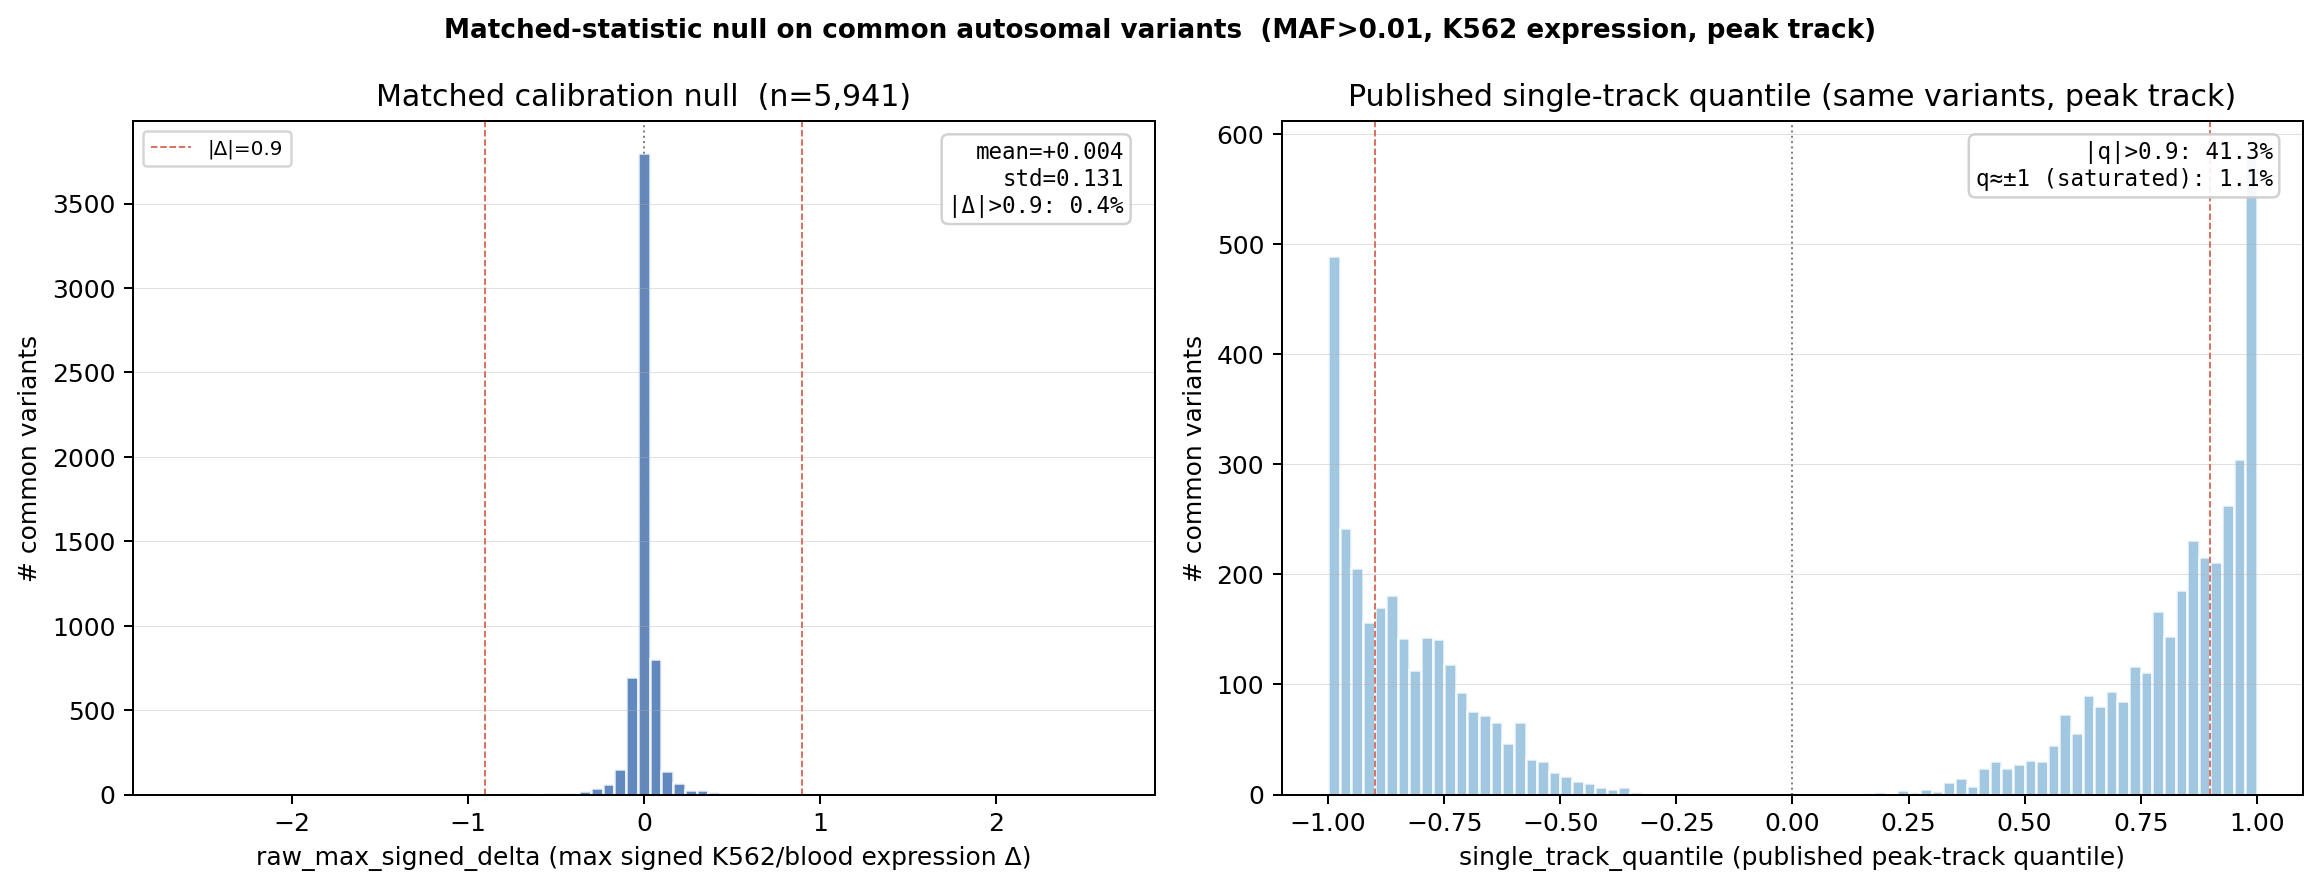
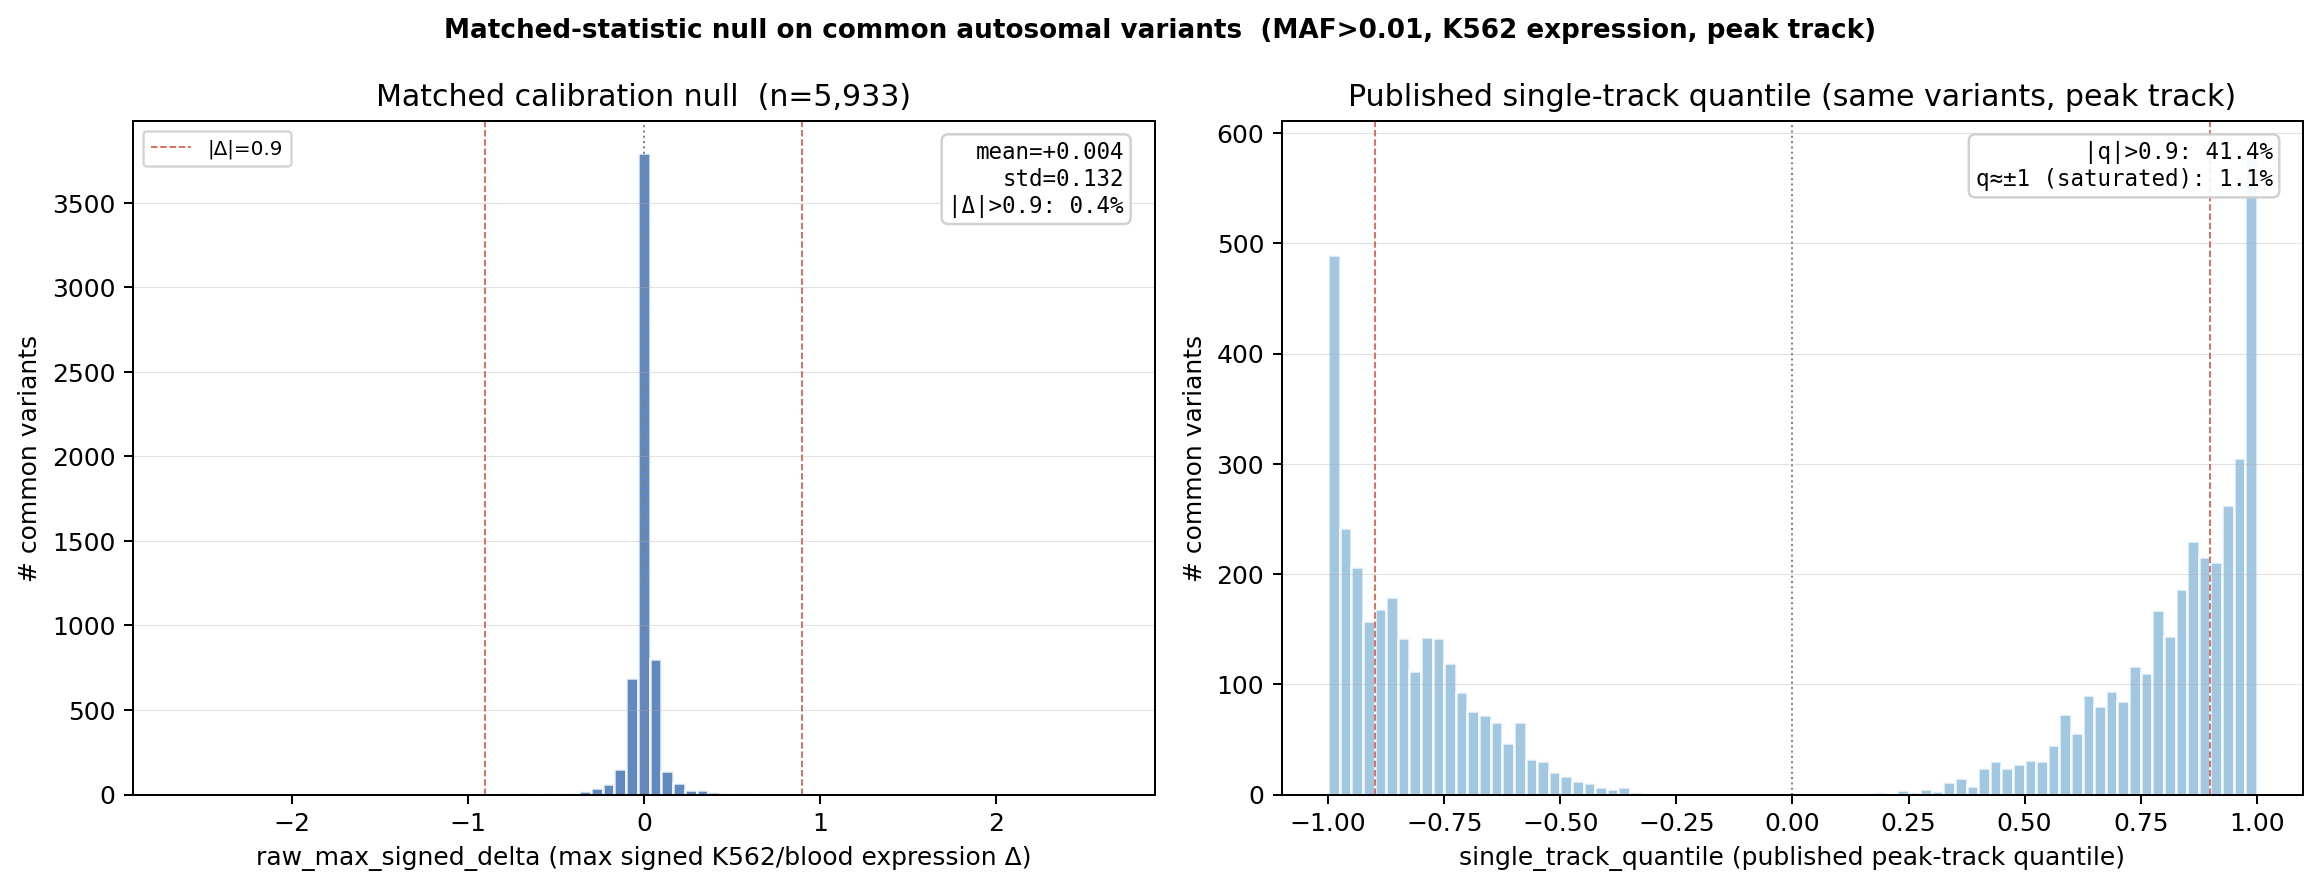
Sharpen README narrative around two-mechanism separation
The original framing bundled selection bias and the order-statistic
effect as joint causes of saturation. The three-recipe matched-cal
experiment from the previous commit shows they are cleanly separable:

- Order-statistic effect is real and quantifiable on the common-variant
  null (max: 0.42% > |0.9|; mean and median: 0.00%). It is what produces
  the published-quantile saturation. Fixable either by matched-statistic
  recalibration OR by swapping the pre-quantile aggregation.

- Selection bias is residual after the matched-calibration recipe is
  applied: ~13% of Tewhey variants still land above |0.9| under any
  aggregation. That's biology, not a calibration artifact.

Changes:
- TL;DR: explicit two-component framing.
- "Why this happens": mechanism ordering inverted (order-statistic first,
  since it's the decisive and fixable one). Updated common-variant table
  to show max/mean/median + published quantile side-by-side (5,933 vars).
- Methods: three-recipe Tewhey comparison table added; new figure
  reference (matched_recipes_comparison.png).
- Limitations: mean/median bullet moved out of "Not run".
- Repo structure + data table: new scripts and CSVs listed.
- config.yaml: null_size_actual 5941 → 5933 (re-scored cache reflects
  new error/timeout counts).
- Regenerated matched_calibration_histogram.png on the refreshed null.

Changed region(s): [[0.3723, 0.0911, 0.4033, 0.1215], [0.031, 0.6985, 0.062, 0.7289], [0.031, 0.3037, 0.062, 0.3341]]

diff --git a/README.md b/README.md
@@ -5,7 +5,9 @@
 
 ---
 
-AlphaGenome's published quantile-calibrated scoring uses single-track summary statistics. When max-over-tracks aggregation is applied to these outputs — a common composition for tissue-level variant scoring — saturation collapses signed correlation against measured MPRA log fold change from ρ = 0.123 to ρ = 0.037 (n = 3,246), with 94.9% of regulatory variants pinned at |score| > 0.9. Re-deriving the quantile calibration using matched max-over-tracks statistics on a common-variant null recovers the full underlying signal at ρ = 0.123 (95% CI [0.088, 0.157], p = 2.5×10⁻¹²) (same n; the matched-calibration result is a re-quantiling of the same variants against a matched null). The saturation is an artifact of the calibration-statistic mismatch, not of the model. The fix is methodological: match calibration summary statistics to the use case.
+AlphaGenome's published quantile-calibrated scoring uses single-track summary statistics. When max-over-tracks aggregation is applied to these outputs — a common composition for tissue-level variant scoring — saturation collapses signed correlation against measured MPRA log fold change from ρ = 0.123 to ρ = 0.037 (n = 3,246), with 94.9% of regulatory variants pinned at |score| > 0.9. Re-deriving the quantile calibration using max-over-tracks statistics on a common-variant null recovers the full underlying signal at ρ = 0.123 (95% CI [0.088, 0.157], p = 2.5×10⁻¹², n = 3,246).
+
+The mechanism behind that recovery separates cleanly into two parts. The **order-statistic component** is the source of saturation in the published quantile and is real and quantifiable on the null: on the same 5,933 common variants, max-over-tracks raw deltas exceed |0.9| at 0.42% — but mean- and median-over-tracks raw deltas do so at 0.00%. The **regulatory-enrichment component** is residual: after the matched-calibration recipe absorbs the order-statistic effect, ~13% of Tewhey variants still land above |0.9| under any aggregation choice (max, mean, or median give Spearman within each other's CIs — ρ ≈ +0.12). That residual is biology, not a calibration artifact. The fix is methodological: match calibration summary statistics to the use case, and the choice of aggregation downstream of the match becomes a presentation decision rather than a science one.
 
 ---
 
@@ -19,22 +21,26 @@ AlphaGenome's published quantile-calibrated scoring uses single-track summary st
 
 AlphaGenome's published `quantile_score` is computed by ranking each variant's per-track raw score against an empirical background of ~300,000 common variants (gnomAD / 1000 Genomes, MAF > 0.01). The calibration is correct for its design purpose: a single-track score in [−1, +1] where 0.9 means "this variant has a larger predicted regulatory effect on this track than 90% of common genetic variation." That is the right tool for ranking candidates within a fine-mapped credible set at one locus.
 
-The problem appears at validation time, through two mechanisms.
+The problem appears at validation time, through two mechanisms that are routinely conflated but are mechanistically separable.
 
-**Mechanism 1 — selection bias.** MPRA panels and eQTL datasets are not random: they are assembled from variants that already showed up in GWAS, passed regulatory annotation filters, or were selected specifically because they might be functional. By the same logic that makes them interesting to study, they are enriched for regulatory activity relative to background.
+**Mechanism 1 — calibration-statistic mismatch (order-statistic inflation).** Tissue-level pipelines aggregate single-track scores with a summary statistic — typically the maximum signed value across all tissue-relevant expression tracks. Composing that order statistic on top of single-track-calibrated quantiles is what produces the bulk of the saturation: for *n* tracks the chance that *some* track exceeds the 0.9 single-track quantile is 1 − 0.9ⁿ, so with the hundreds of K562 expression tracks AlphaGenome actually exposes, the max exceeds 0.9 with probability approaching 1 — for *any* variant, regulatory or not. This is a property of the aggregation operation, not the variants.
 
-**Mechanism 2 — calibration-statistic mismatch.** Tissue-level pipelines aggregate single-track scores with a summary statistic — typically the maximum signed value across all tissue-relevant expression tracks. Composing that order statistic on top of single-track-calibrated quantiles is what produces saturation: for *n* tracks the chance that *some* track exceeds the 0.9 single-track quantile is 1 − 0.9ⁿ, so with 20–30 K562 tracks the max exceeds 0.9 with probability ~88–96% — for *any* variant, regulatory or not.
+**Mechanism 2 — selection bias.** MPRA panels and eQTL datasets are not random: they are assembled from variants that already showed up in GWAS, passed regulatory annotation filters, or were selected specifically because they might be functional. By the same logic that makes them interesting to study, they are enriched for regulatory activity relative to background.
 
-Empirically, on **5,941 random common autosomal variants** (gnomAD MAF > 0.01, sampled genome-wide):
+Empirically, on **5,933 random common autosomal variants** (gnomAD MAF > 0.01, sampled genome-wide; same variants used for the matched-calibration null in this work):
 
-|  | Saturation \|score\| > 0.9 | Exactly ±1 |
+| Aggregation of K562 expression raw deltas | Saturation \|·\| > 0.9 on common variants | Saturation \|·\| > 0.5 |
 |---|---|---|
-| Matched null (raw max-over-tracks Δ — calibration matches the test statistic) | **0.42 %** | 0.000 % |
-| Published single-track quantile (single-track calibration, max-over-tracks applied) | **41.3 %** | 1.1 % |
+| Max-over-tracks (the pipeline statistic) | **0.42 %** | 1.28 % |
+| Mean-over-tracks | **0.00 %** | 0.00 % |
+| Median-over-tracks | **0.00 %** | 0.00 % |
+| Published single-track quantile (single-track calibration, max applied) | **41.4 %** | — |
 
-The ~100× gap on identical variants is the direct demonstration: saturation is produced by composing a single-track-calibrated output with a different-statistic aggregation, not by any property of the variants being scored. Mechanism 1 (selection bias) pushes regulatory-enriched panels somewhat further into the tail than random common variation, but mechanism 2 explains the bulk of the effect — including most of the saturation seen on random common variation itself.
+The first three rows isolate the order-statistic effect on identical variants: swapping max for mean or median on the raw side eliminates tail inflation on the common-variant null. The fourth row is what users see when the published per-track quantile is composed with max — the same variants now hit 41% saturation, two orders of magnitude higher. That ~100× gap is mechanism 1 alone, on variants with no regulatory enrichment.
 
-This is not a bug in AlphaGenome. The published calibration is faithful to its construction (single-track empirical quantiles). The lesson generalizes: any tool that publishes a quantile calibrated against one summary statistic and is then aggregated with a different one will exhibit the same artifact.
+Mechanism 2 (selection bias) explains why the saturation rate on regulatory-enriched panels (94.9% on Tewhey) is higher still than on common variants (41%): regulatory variants sit further into the tail of any aggregation. But unlike mechanism 1, it isn't fixed by the matched-calibration recipe — after re-calibrating against a matched null, ~13% of Tewhey variants still land above |0.9|. That residual is biology.
+
+This is not a bug in AlphaGenome. The published calibration is faithful to its construction (single-track empirical quantiles). The lesson generalizes: any tool that publishes a quantile calibrated against one summary statistic and is then aggregated with a different one will exhibit the same order-statistic artifact.
 
 ---
 
@@ -113,20 +119,38 @@ For completeness, the empirical CDF of the original-quantile score on regulatory
 
 ### Matched-statistic calibration
 
-**5,941** random common autosomal SNVs were sampled from **66 windows of 50 kb** placed proportional to chromosome length (chr1 → 7 windows; chr19–22 → 1 each), at uniformly-random offsets ≥ 1 Mb from chromosome ends, autosomes only, seed = 2026. Sex chromosomes were excluded for simplicity. Within each window, variants were fetched and filtered to MAF > 0.01 via gnomAD v3 GraphQL (the same allele-frequency source AlphaGenome calibrates against), keeping biallelic SNVs only and dropping any variant whose rsID appears in the Tewhey panel (3 dropped). The procedure is reproducible from the seed alone.
+**5,933** random common autosomal SNVs (5,995 attempted, 60 errors, 2 timeouts) were sampled from **66 windows of 50 kb** placed proportional to chromosome length (chr1 → 7 windows; chr19–22 → 1 each), at uniformly-random offsets ≥ 1 Mb from chromosome ends, autosomes only, seed = 2026. Sex chromosomes were excluded for simplicity. Within each window, variants were fetched and filtered to MAF > 0.01 via gnomAD v3 GraphQL (the same allele-frequency source AlphaGenome calibrates against), keeping biallelic SNVs only and dropping any variant whose rsID appears in the Tewhey panel (3 dropped). The procedure is reproducible from the seed alone.
 
-Each variant was scored through AlphaGenome v0.6.1 with the K562/blood-lineage tissue profile, expression-modality filter (RNA_SEQ + CAGE + PROCAP), and the same per-variant 60-second timeout used by `batch_score.py`. Scoring was parallelized 4-way with a write lock around the SQLite cache. The score retained per variant is the matched summary statistic — the max signed value of `raw_score` over the K562 expression tracks. The peak track's published `quantile_score` was also retained for the saturation comparison.
+Each variant was scored through AlphaGenome v0.6.1 with the K562/blood-lineage tissue profile, expression-modality filter (RNA_SEQ + CAGE + PROCAP), and the same per-variant 60-second timeout used by `batch_score.py`. Scoring was parallelized 4-way with a write lock around the SQLite cache. Three summary statistics are retained per variant: the max, mean, and median signed `raw_score` across all K562 expression tracks. The peak track's published `quantile_score` is also retained for the saturation comparison.
 
-The smoking-gun result on the **same** 5,941 random common variants:
+**Smoking-gun result.** Saturation on the **same** 5,933 random common variants under three pre-quantile aggregations:
 
-| | Saturation \|·\| > 0.9 | Exactly ±1 |
+| Aggregation of per-track `raw_score` | Saturation \|·\| > 0.9 | Saturation \|·\| > 0.5 |
 |---|---|---|
-| Matched null (raw max-over-tracks Δ) | **0.42 %** | 0.000 % |
-| Published single-track quantile (peak track) | **41.3 %** | 1.1 % |
+| Max-over-tracks | **0.42 %** | 1.28 % |
+| Mean-over-tracks | **0.00 %** | 0.00 % |
+| Median-over-tracks | **0.00 %** | 0.00 % |
+| Published single-track quantile (peak track, for reference) | **41.4 %** | — |
 
-This is the direct evidence that single-track calibration composed with max-over-tracks aggregation produces saturation independently of regulatory enrichment. With the matched null in hand, applying the calibration to a test variant is a percentile rank against the empirical CDF of `raw_max_signed_delta` in `matched_calibration_null.parquet`, mapped linearly to [−1, +1]. Full procedure and parameters in [`docs/matched_calibration.md`](docs/matched_calibration.md).
+This isolates the order-statistic mechanism: variants don't change, the model doesn't change, only the aggregation operation changes. Max inflates the tail; mean and median don't. The published quantile sits at 41% because it is the per-track empirical quantile of the peak track — a different layer of order statistic on top of the same per-track outputs.
+
+**Three-recipe Tewhey comparison.** Re-quantiling each Tewhey variant against the matched null built under each of the three aggregations gives:
+
+| Recipe (matched null built from…) | Tewhey quantile \|·\| > 0.9 | Spearman ρ vs MPRA LFC | 95% CI |
+|---|---|---|---|
+| Max-over-tracks | 12.82 % | +0.1233 | [+0.0879, +0.1569] |
+| Mean-over-tracks | 12.61 % | +0.1176 | [+0.0828, +0.1517] |
+| Median-over-tracks | — *(Tewhey median not extracted)* | — | — |
+
+Two things to read out of this. **First**, the three recipes are essentially interchangeable for the Tewhey ranking task — Spearman differs by 0.006 (well within each other's bootstrap CIs), and tail saturation under matched calibration sits at ~13% regardless of aggregation. The matched-calibration recipe absorbs the choice. **Second**, the residual ~13% saturation on Tewhey *is not* the order-statistic effect (which the matched recipe eliminates on the common-variant null); it is regulatory enrichment, the unavoidable consequence of asking "do these MPRA-selected variants sit further from common-variant baseline than common variants do." That's a feature, not a bug — under faithful calibration, regulatory variants *should* land in the tail.
+
+With the matched null in hand, applying the calibration to a test variant is a percentile rank against the empirical CDF of `raw_max_signed_delta` (or `raw_mean_signed_delta`, or median) in `matched_calibration_null.parquet`, mapped linearly to [−1, +1]. Full procedure and parameters in [`docs/matched_calibration.md`](docs/matched_calibration.md); three-recipe outputs in `matched_recipes_comparison.csv` and the figure below.
 
 ![Matched calibration null](figures/matched_calibration_histogram.png)
+
+![Three-recipe comparison](figures/matched_recipes_comparison.png)
+
+*Three-recipe matched-calibration comparison. Rows: null distributions on common variants (A1–C1), Tewhey re-quantiled against each null (A2–C2), and MPRA LFC vs each matched quantile (A3–C3). The order-statistic effect lives in row 1 — max stretches the null tail, mean and median don't. The Tewhey signal is preserved in row 3 regardless of aggregation choice.*
 
 ---
 
@@ -196,8 +220,10 @@ make verify
 ├── prefetch_variants.py         # GWAS Catalog → preloaded_variants.db
 ├── tewhey_analysis.py           # download + score Tewhey MPRA panel
 ├── extract_raw_deltas.py        # raw expression delta extraction (Tewhey)
-├── build_matched_calibration.py # Component 2: build matched null on common variants
+├── build_matched_calibration.py # Component 2: build matched null on common variants (max/mean/median)
 ├── analyze_matched_calibration.py # Component 3: 4-way Tewhey re-analysis
+├── analyze_mean_aggregation.py    # Component 4a: raw-side max vs mean on Tewhey
+├── analyze_matched_calibration_recipes.py # Component 4b: three-recipe matched-cal comparison
 ├── saturation_figure.py         # saturation CDF figures
 ├── phase2_figures.py            # distribution and LFC-bin figures
 ├── phase3_blood_traits.py       # blood trait replication
@@ -218,9 +244,11 @@ All scoring results are included so you can inspect the data or regenerate figur
 | `scored_variants.db` | 1,125 GWAS variant-disease pairs across 4 diseases (767 with per-modality `signed_max_score` cached) |
 | `tewhey_mpra.parquet` | Tewhey 2016 panel with original-quantile expression scores (3,259 variants) |
 | `tewhey_raw_delta_cache.db` | Raw expression deltas for full Tewhey panel (3,301 rows; 3,275 usable) |
-| `matched_calibration_cache.db` | Per-variant raw delta + single-track quantile for the 5,941-variant null |
+| `matched_calibration_cache.db` | Per-variant max / mean / median raw delta + single-track quantile for the 5,933-variant null |
 | `matched_calibration_null.parquet` | Clean matched null distribution used for re-quantiling |
 | `matched_calibration_comparison.csv` | Four-row Spearman table from `analyze_matched_calibration.py` |
+| `matched_recipes_comparison.csv` | Three-recipe (max/mean/median) saturation + Spearman from `analyze_matched_calibration_recipes.py` |
+| `mean_aggregation_comparison.csv` | Tewhey raw-side max vs mean from `analyze_mean_aggregation.py` |
 | `phase3_blood_cache.db` | Original-quantile scores for 393 blood trait GWAS variants |
 | `variants.db` | Ensembl allele resolution cache |
 
@@ -246,10 +274,10 @@ Data sources: Tewhey 2016 MPRA (GSE75661, GRCh38 liftover) · GWAS Catalog v2 ·
 
 ### What would change the interpretation
 
-The interpretation here rests on a specific causal story about the calibration-statistic mismatch. Two experiments would directly probe it:
+The interpretation here rests on a specific causal story. The order-statistic prediction has been tested; the tissue-mismatch prediction has not.
 
-- **Matched-tissue scoring.** Re-running raw delta extraction with LCL (lymphoblastoid) tracks instead of K562 should bring the model into the cell type Tewhey 2016 actually measured. If the K562/LCL mismatch is suppressing correlation, matched-tissue ρ should rise. If it stays flat or falls, ρ = +0.123 reflects the model's true ceiling on this dataset rather than a tissue artifact, and the story needs revising. Not run.
-- **Median or mean aggregation across tracks.** If max-over-tracks is the operation that creates the order-statistic mismatch, replacing max with per-track median or mean across the 20–30 K562 tracks should substantially reduce saturation rates under the published quantile on the same panels — both Tewhey and the matched null. Equivalent saturation under mean aggregation would falsify the calibration-statistic-mismatch half of the story. Not run.
+- **Median or mean aggregation across tracks (DONE).** Replacing max with mean or median on the same K562 raw deltas drops common-variant saturation from 0.42% (max) to 0.00% (mean, median) on identical variants — confirming the order-statistic mechanism. Under the matched-calibration recipe, all three aggregations give essentially identical Tewhey rankings (Spearman ρ within each other's CIs; ~13% saturation under matched quantile regardless of aggregation). The order-statistic effect is real on the null distribution; the residual Tewhey saturation under matched calibration is regulatory enrichment, not an aggregation artifact. See the three-recipe comparison in `analyze_matched_calibration_recipes.py` and `figures/matched_recipes_comparison.png`.
+- **Matched-tissue scoring (NOT RUN).** Re-running raw delta extraction with LCL (lymphoblastoid) tracks instead of K562 should bring the model into the cell type Tewhey 2016 actually measured. If the K562/LCL mismatch is suppressing correlation, matched-tissue ρ should rise. If it stays flat or falls, ρ = +0.123 reflects the model's true ceiling on this dataset rather than a tissue artifact, and the story needs revising.
 
 ---
 
